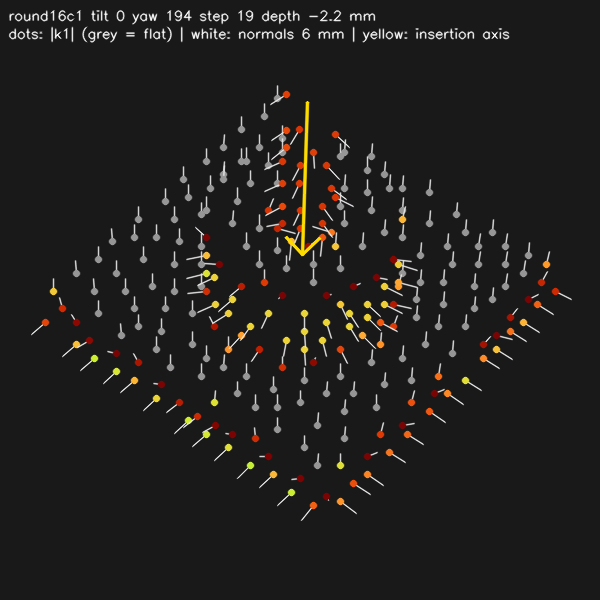
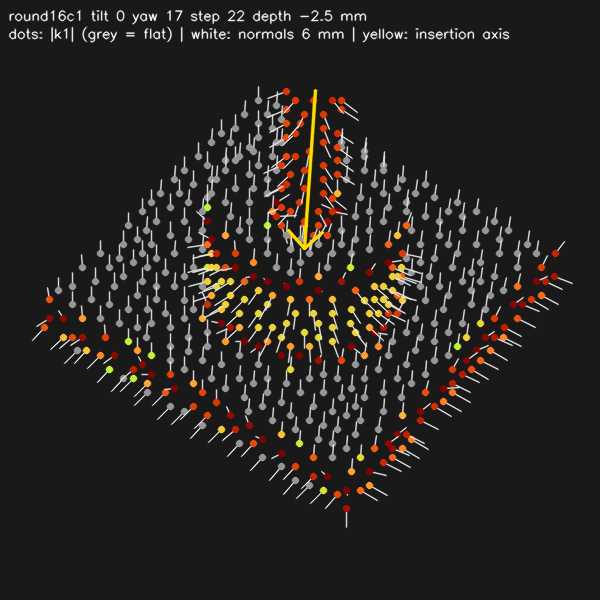
README: shorter overview; regenerated A8 point cloud figures

Changed region(s): [[0.06, 0.15, 0.96, 0.87], [0.3, 0.0, 0.63, 0.06]]

diff --git a/README.md b/README.md
@@ -1,77 +1,100 @@
-# Direction-aware point cloud encoder for force-aware peg insertion (simulation prototype)
+# Direction-aware point cloud encoder for force-aware peg insertion (Franka FR3, simulation)
 
 I built a minimal direction-aware point cloud encoder: input a point cloud with per-point normals, principal curvatures (direction and magnitudes) and the nominal insertion axis (N×14) → output a trained encoder whose geometric embedding conditions a diffusion policy.
+The policy is also conditioned on the end-effector pose and the wrist wrench history. It is trained on 480 simulated peg-in-hole demonstrations and evaluated closed loop on cases fixed before training.
 
-![closed-loop insertion on a held-out hole pose](figures/demo_f3-010.gif)
+> **Application context.** Prepared as application material for the semester project *Development of a Point Cloud Encoder for Force-Aware Manipulation Policy Learning* (IfA / inspire AG, with Bota Systems). Nothing here claims that work on that project has started; scope boundaries are in [What this is not](#what-this-is-not) and [Limitations and next steps](#limitations-and-next-steps).
 
-*Case f3-010, closed loop with the expert disabled: a Franka FR3 inserts a hexagonal peg into a hole tilted 15°, a tilt never seen in training. Left: the scene. Middle: what the encoder sees (512 points, normals, insertion axis). Right: wrist force Fz and insertion depth (success = 20 mm within 15 s).*
+![closed-loop insertion on a hole tilt never seen in training](figures/demo_f3-010.gif)
 
-**Results** (frozen protocol, one config, every attempt in `results/results.json`): held-out hole pose f3 6/20 · training poses train_control 6/10 · novel cross-sections f4 0/30 (a limitation, see below) · 30° extrapolation extrap 1/10 (reported only).
+*Case `f3-010`, closed loop with the expert disabled: the FR3 inserts a hexagonal peg into a hole tilted 15°, a tilt that never appears in training. Left: the scene. Middle: what the encoder sees (512 points, normals, the insertion axis). Right: wrist force Fz and insertion depth.*
 
-What is hard-coded: simulation only (MuJoCo 3.10, Franka FR3 model), ground-truth camera extrinsics, one fixed workspace depth camera, a scripted expert that knows the hole pose up to a 0.5–1.8 mm aiming error and corrects it with wrist force, one parametric peg/hole family, and the nominal insertion axis given as a task input.
+**Results** (one config and one seed; every attempt is in `results/results.json`; peg shapes seen in training): hole tilt never seen in training f3 6/20 · training tilts train_control 6/10.
 
-## What is implemented
+What is hard-coded: simulation only (MuJoCo 3.10, Franka FR3 model), ground-truth camera extrinsics, one fixed depth camera, a scripted expert that knows the hole pose up to a 0.5–1.8 mm aiming error and corrects it with wrist force, and the nominal insertion axis given as a task input.
 
-The anchor chain, end to end:
+## Pipeline at a glance
 
-1. **Scene**: Franka FR3 (MuJoCo Menagerie), a peg fixed to the flange through a wrist force/torque sensor, and a tiltable part with a matching hole (1 mm clearance per side, 30 mm deep, chamfered).
-2. **Demonstrations**: 480 expert insertions over 8 training geometries (round, square, hexagon, octagon × 2 sizes), with DART noise and force-guided lateral correction.
-3. **Point cloud**: depth image → back-projection → crop around the pin tip (proprioception only, no ground-truth part pose) → farthest point sampling to 512 points.
-4. **Direction features** (14 channels per point): xyz, surface normal (Open3D, k = 20), principal-curvature direction and both curvature magnitudes, nominal insertion axis.
-5. **Encoder**: DP3-style PointNet encoder taking all 14 channels. This is the trained model the project delivers (`weights/send_pc/encoder.pt`, loadable on its own).
-6. **Policy**: encoder embedding + end-effector pose + wrist-wrench history → conditional 1-D U-Net diffusion head (DDPM training, 10-step DDIM sampling). Positions and point coordinates are expressed relative to the pin tip.
-7. **Closed-loop evaluation** on a protocol frozen before any training: 70 cases, each attempted once.
+```mermaid
+flowchart LR
+    S["MuJoCo scene<br/>Franka FR3 · wrist F/T sensor<br/>tilted part with a hole"] --> E["Scripted expert<br/>aiming error + force-guided correction"]
+    E --> D["480 demonstrations"]
+    S --> C["Depth → point cloud<br/>crop around the pin tip · 512 points"]
+    C --> F["14 channels per point<br/>xyz · normal · curvature · axis"]
+    F --> N["Encoder (DP3-style)<br/>weights/send_pc/encoder.pt"]
+    W["Pose · wrench history"] --> H
+    N --> H["Diffusion head<br/>actions relative to the pin tip"]
+    D --> T["Training<br/>one AWS T4 run, 7 min"]
+    T --> N
+    H --> R["Closed-loop evaluation<br/>results/*.json"]
+```
 
-## Results
+## Project fit at a glance
 
-| Group | What is held out | Successes / attempts |
+| Listing goal | What this repository does | Status |
 |---|---|---|
-| train_control | nothing (training geometries and tilts, new poses) | train_control 6/10 |
-| f3 | hole tilt 15° (never in training), training geometries | f3 6/20 |
-| f4 | cross-section shape (rectangle, triangle, pentagon; never in training) | f4 0/30 |
-| extrap | hole tilt 30° (outside the training range) | extrap 1/10 |
+| Depth / point cloud streams and camera calibration | One simulated depth camera turned into a point cloud, cropped using proprioception only; extrinsics are the simulator's ground truth | simulation stand-in |
+| **Point cloud encoder that processes directional vector inputs** | DP3-style encoder over 14 channels (xyz, normal, curvature direction and magnitudes, insertion axis), trained end to end and loadable on its own | done at prototype scale |
+| Fuse with force and proprioception to condition a diffusion policy | Encoder embedding + pose + wrench history condition a 1-D U-Net diffusion head | done |
+| Evaluate transfer against vision and baseline encoders | Hole tilt never seen in training, plus point-cloud and wrench ablations; the RGB-only baseline is configured, not yet run | partial |
 
-Checks that the trained encoder is actually used:
+## Evidence snapshot
 
-- Closed loop, f3 with a mismatched point cloud (another case's scene): f3 0/20, versus f3 6/20 with the real one.
-- Closed loop, f3 with the wrench input zeroed: f3 4/20. This is reported only, not claimed as a gain.
-- Training-window loss with another episode's point cloud: 101.8× the loss with its own.
-- Swapping only the direction channels (normals, curvatures) for another frame's moves the predicted positions by 3.0 mm on average; zeroing the wrench in contact moves them by 0.9 mm. The pass threshold is 0.5 mm (half the per-side clearance); it replaced an earlier threshold in normalised action units that was mis-scaled, and was set after that first measurement. The full check output is in `results/check_floor_d1.txt`.
+| finding | source |
+|---|---|
+| On a hole tilt never seen in training, f3 6/20 across six different cases | `results/pc.json` |
+| The encoder drives the result: with another case's point cloud, f3 0/20; on training windows, the loss is 101.8× higher | `results/send_pc_ablate_pc_f3.json`, `results/check_floor_d1.txt` |
+| Directions and force are read: swapping only the direction channels moves the predicted positions by 3.0 mm; zeroing the wrench in contact moves them by 0.9 mm, against a 0.5 mm threshold (half the per-side clearance) | `results/check_floor_d1.txt` |
+| The encoder is trained (10,000 steps) and loads on its own; a fresh clone runs inference from the committed weights | `policy/check_encoder.py`, `scripts/smoke_test.sh` |
 
-## How to reproduce
+## What this is not
 
-Tested on macOS x86_64 with Python 3.12.
+- Not a real-robot result: everything runs in MuJoCo, with no TACTO setup, no Bota sensor and no real camera.
+- Not a benchmark: one object family, one seed.
+- Not a claim that the force input improves success: the wrench is shown to be read, not to help.
+
+## Quick start
+
+Tested on macOS x86_64 with Python 3.12:
 
 ```bash
 python3.12 -m venv .venv && .venv/bin/pip install -r requirements.txt
-.venv/bin/python third_party/fetch_menagerie.py                                  # Franka FR3 model, pinned commit
-bash scripts/smoke_test.sh                                                        # fresh clone -> load committed weights -> one inference
-.venv/bin/python -m policy.check_encoder weights/send_pc/encoder.pt              # the trained encoder on its own
-.venv/bin/python -m eval.run --policy weights/send_pc --all --out results/pc.json   # full closed-loop evaluation, about 20 min on CPU
+.venv/bin/python third_party/fetch_menagerie.py                                    # Franka FR3 model, pinned commit
+bash scripts/smoke_test.sh                                                          # fresh clone -> committed weights -> one inference
+.venv/bin/python -m eval.run --policy weights/send_pc --all --out results/pc.json  # closed-loop evaluation, about 20 min on CPU
 ```
 
-`eval.check_floor` also recomputes the sensitivity checks, so it needs the demonstrations (`data/demos.npz`, not in git): run `python -m sim.gen_demos` first (about 15 min with 3 processes), then `python -m eval.check_floor results/pc.json --ablation results/send_pc_ablate_pc_f3.json`.
+Training: `python -m sim.gen_demos` (about 15 min), then `python -m policy.train --config configs/send_pc.json --device cuda`.
 
-Training from scratch:
+## How it works
 
-- `python -m sim.gen_demos` generates the demonstrations, about 15 min with 3 processes.
-- `python -m policy.train --config configs/send_pc.json --device cuda` trains the policy. It took 7 min on one T4 GPU; `policy/requirements-train-gpu.txt` lists the GPU environment.
+- **Evaluation fixed first.** The cases, the success criterion (20 mm deep within 15 s) and every threshold were fixed in `eval/protocol.json` before training.
+- **No simulator truth in perception.** The point cloud is cropped around the pin tip using proprioception only; a self-check poisons the true part pose and requires an identical observation.
+- **Positions relative to the pin tip.** Point coordinates and position actions are relative to the pin tip, so every hole position becomes the same local problem (`policy/test_relative.py`).
+- **An expert that needs force.** The expert aims with a small error and corrects it from the wrist force, so the demonstrations depend on the wrench.
+- **Checks against a degenerate model** (table above) run on the committed weights, and every result records its config and weight hashes (`eval/check_floor.py`, `eval/audit_results.py`).
 
-## Limitations
+## Limitations and next steps
 
-- **Novel cross-sections do not work yet (f4 0/30).** The policy does not rotate the peg about the insertion axis to match an unseen polygon: the twist error reached 17–56° on the rectangle and triangle. The expert always knew the aligned twist, so the demonstrations never showed a twist search.
-- Tilts outside the training range mostly fail (extrap 1/10).
-- Everything is in simulation, with a privileged scripted expert, one camera with ground-truth extrinsics, one random seed, and a small U-Net sized for CPU.
+- Simulation only. Next: real depth streams on the TACTO setup, with automatic wrist and workspace camera calibration.
+- Transfer to cross-section shapes that are not in training does not work yet, and tilts beyond the training range mostly fail. Next: an expert that searches the twist using wrist torque.
+- RGB-only baseline: configured in `configs/send_rgb.json`, not yet run.
+- One seed, a small U-Net sized for a CPU, and approximate curvature channels.
 
-## Next steps
+## Repo layout
 
-- Real depth streams on the TACTO setup, with automatic extrinsic calibration of wrist and workspace cameras (hand-eye AX = XB).
-- Novel shapes: an expert that searches the twist from the wrist torque about the insertion axis, then retrain and rerun f4.
-- RGB-only baseline: configured in `configs/send_rgb.json`, not yet run, so no comparison is claimed.
-- Ablations of the encoder input (xyz only, xyz + axis, all 14 channels), and expressing the input in the insertion-axis frame.
-- A ROS2 interface to the Bota wrist sensor.
+```
+sim/          scene, control, wrist F/T, point cloud and features, expert, demonstrations, checks
+policy/       encoder, diffusion policy, training, checks
+eval/         frozen protocol, closed-loop runner, floor check, audits, GIF
+weights/      send_pc: the committed encoder and policy
+results/      result JSON and check output
+third_party/  dp3 (vendored, changes listed in SOURCE.md); FR3 model fetch script
+```
 
-## Provenance and licenses
+## References
 
-- `third_party/dp3/`: encoder and U-Net from 3D Diffusion Policy (MIT) at commit 47385d9. Every modification is listed in `third_party/dp3/SOURCE.md`.
-- Franka FR3 model: MuJoCo Menagerie (Apache-2.0) at commit c96a32d, fetched by `third_party/fetch_menagerie.py`.
+- Y. Ze et al., "3D Diffusion Policy", RSS 2024 (`YanjieZe/3D-Diffusion-Policy`, MIT; vendored at 47385d9).
+- C. Chi et al., "Diffusion Policy", RSS 2023.
+- M. Laskey et al., "DART: Noise Injection for Robust Imitation Learning", CoRL 2017.
+- Franka FR3: MuJoCo Menagerie (Apache-2.0) at c96a32d.
